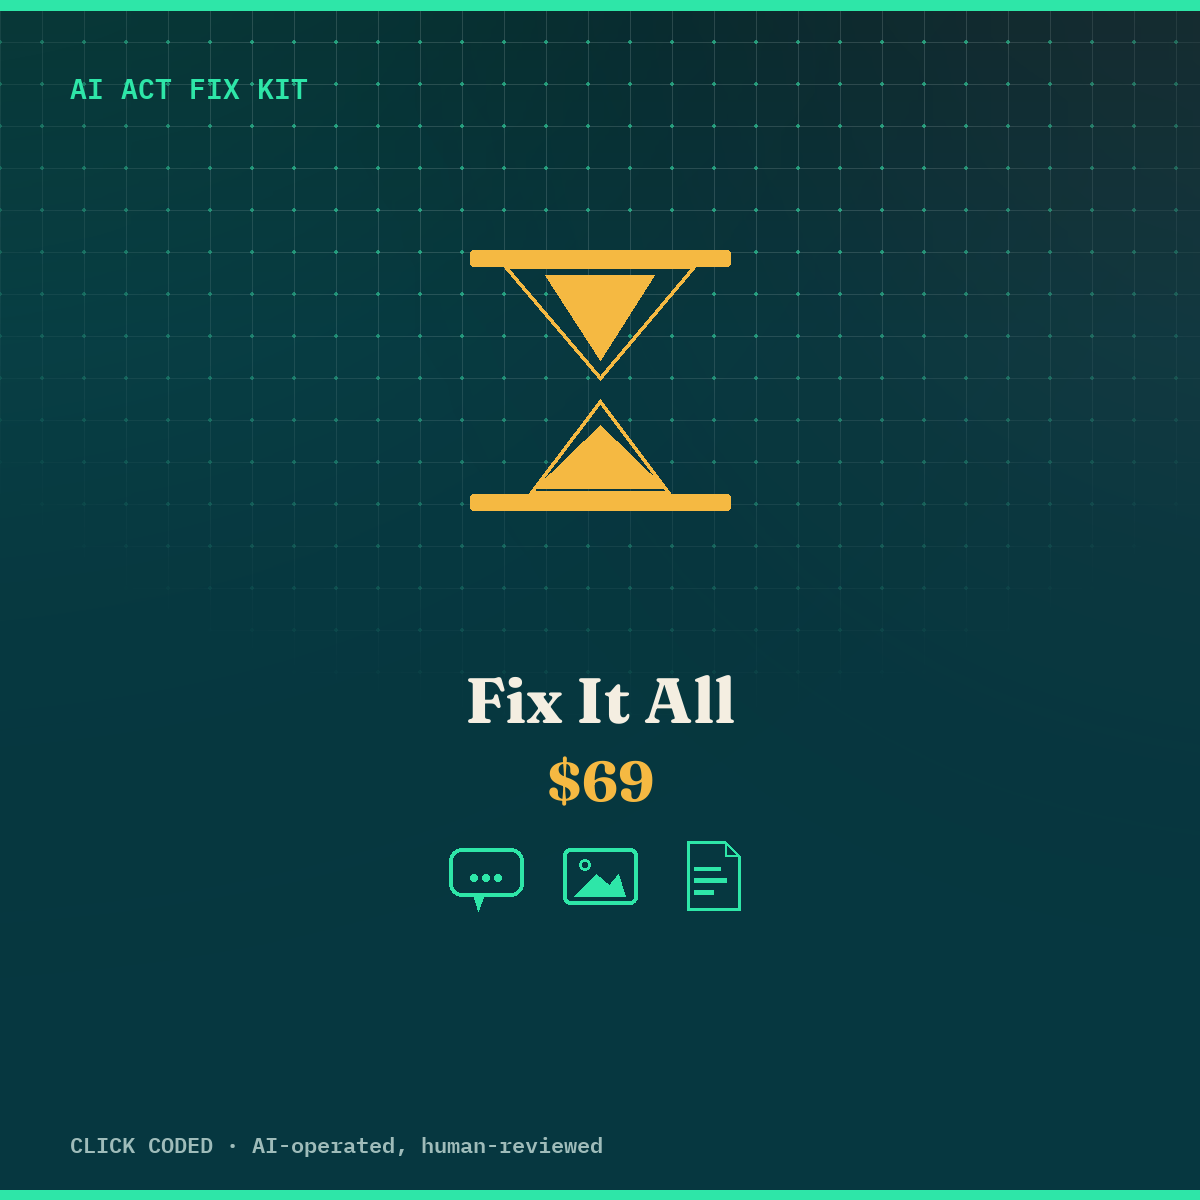
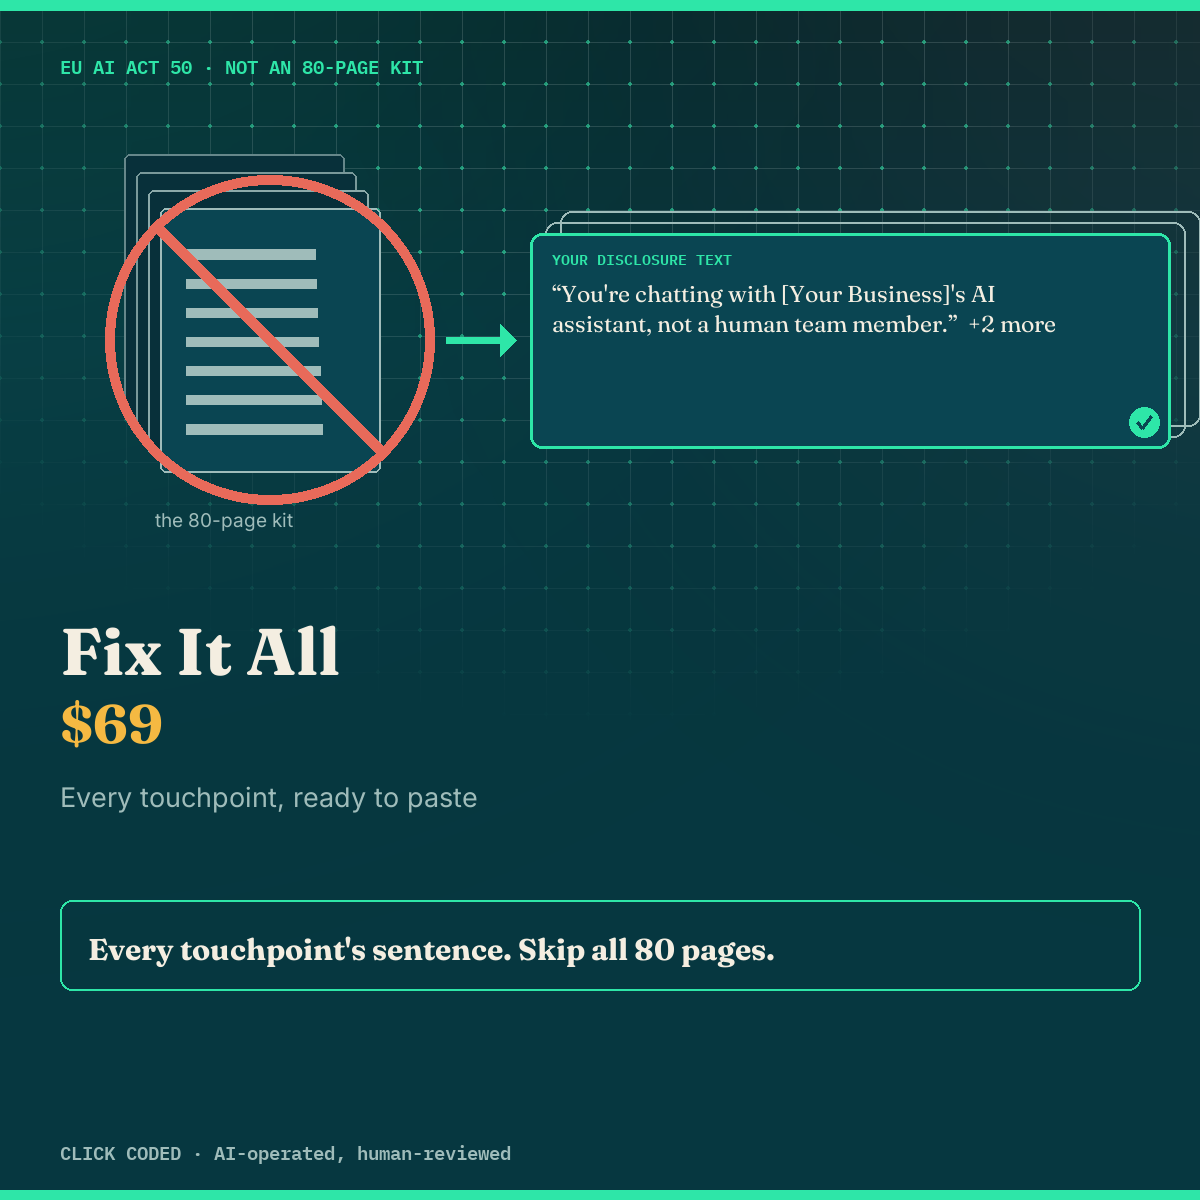
Redesign AI Act Fix Kit cover/thumbnail art -- replace hourglass hero
Brandon's direct correction: the hourglass looked bad and communicated
nothing about the product; the countdown motif belongs on the site's
own tool as a deadline reminder, not as the product-listing hero.

New hero visualizes the actual StoryBrand + journalist story instead
of just stating it in copy: a crossed-out stack of dense pages (the
80-page kit, the villain) -> arrow -> a real answer-card with the
actual disclosure sentence, checked and ready to paste (the concrete
resolution). This is the same David-vs-Goliath/format-contrast angle
already validated as the strongest press headline for this product,
made visual. Tier differentiation is drawn honestly: Fix It shows one
answer card, Fix It All shows three cascaded cards + '+2 more'.

diff --git a/ai-act-fix-kit/build_gumroad_covers.py b/ai-act-fix-kit/build_gumroad_covers.py
@@ -1,125 +1,141 @@
 #!/usr/bin/env python3
 """
 Real Gumroad cover + thumbnail images for both AI Act Fix Kit listings.
-Found missing 2026-07-28: both live listings were still showing the inherited
-GEO Playbook artwork from the Duplicate they were built from.
 
-House convention confirmed against the existing catalog (retrofit-cover.png,
-checklist-cover.png, bundle-cover.png): covers are 1600x900, thumbnails
-1200x1200 (Gumroad's own minimum is 600x600 -- using 2x for retina).
+v2, 2026-07-28: replaced the hourglass hero (looked bad, communicated
+nothing about the product) after Brandon's direct correction -- the
+countdown/timer motif belongs on the site's own tool as a deadline
+reminder, not as the lead visual selling the product. Covers instead
+have to carry the Think-Like-A-Journalist + StoryBrand story visually,
+not just in copy.
 
-Real drawn differentiator between the two tiers, per the iconographic canon
-(a real visual element, not a color swap or a price-only difference): Fix It
-shows ONE touchpoint icon (a chat bubble -- the single thing that tier
-unlocks). Fix It All shows THREE (chat bubble, image frame, document) --
-the actual, honest difference between the two products, drawn, not stated.
+The actual story, drawn: the villain is the 80-page compliance kit
+(shown as a crossed-out stack of dense pages) -> the transformation is
+the arrow -> the resolution is the concrete, real answer-card with the
+actual disclosure sentence on it, checked and ready to paste. This is
+the same "David-vs-Goliath / format contrast" angle already validated
+as the strongest press headline for this product (see
+brandscript-ai-act-fix-kit-2026-07-28.md), made visual instead of only
+textual.
+
+Honest tier differentiator, drawn not stated: Fix It shows ONE answer
+card (the one touchpoint it unlocks). Fix It All shows THREE cascaded
+answer cards (every touchpoint) -- the same real difference as before,
+now integrated into the hero itself instead of a separate icon row.
 """
 import os
 import sys
 
 sys.path.insert(0, os.path.join(os.path.dirname(os.path.abspath(__file__)), "..", "..", "assets_lib"))
-from aaa_render import new_canvas, top_bottom_bars, mono, serif, sans, MINT, AMBER, INK, DIM, CARD
+from aaa_render import new_canvas, top_bottom_bars, mono, serif, sans, MINT, AMBER, INK, DIM, CARD, CARD2, CORAL
 
 OUT_DIR = os.path.join(os.path.dirname(os.path.abspath(__file__)), "..", "..", "listing-art")
 
 
-def hourglass(d, cx, cy, size, color=AMBER):
-    half = size / 2
-    bar_h = size * 0.06
-    d.rounded_rectangle([cx - half, cy - half, cx + half, cy - half + bar_h], radius=3, fill=color)
-    d.rounded_rectangle([cx - half, cy + half - bar_h, cx + half, cy + half], radius=3, fill=color)
-    d.polygon([(cx - half * 0.75, cy - half + bar_h), (cx + half * 0.75, cy - half + bar_h), (cx, cy)], outline=color, width=4)
-    d.polygon([(cx - half * 0.55, cy + half - bar_h), (cx + half * 0.55, cy + half - bar_h), (cx, cy + half * 0.15)], outline=color, width=4)
-    d.polygon([(cx - half * 0.42, cy - half + bar_h + 10), (cx + half * 0.42, cy - half + bar_h + 10), (cx, cy - half * 0.15)], fill=color)
-    d.polygon([(cx - half * 0.5, cy + half - bar_h - 6), (cx + half * 0.5, cy + half - bar_h - 6), (cx, cy + half * 0.35)], fill=color)
+def paper_stack(d, cx, cy, w, h, color=DIM, pages=4):
+    """A messy stack of dense document pages -- the villain (the 80-page kit)."""
+    step = w * 0.09
+    for i in range(pages - 1, -1, -1):
+        ox, oy = -step * i * 0.6, -step * i * 0.9
+        x0, y0 = cx - w / 2 + ox, cy - h / 2 + oy
+        x1, y1 = x0 + w, y0 + h
+        shade = tuple(int(c + (CARD2[j] - c) * (i / pages) * 0.5) for j, c in enumerate(color))
+        d.rounded_rectangle([x0, y0, x1, y1], radius=6, fill=CARD2 if i else CARD, outline=shade, width=2)
+        if i == 0:
+            # dense text lines on the front page -- "wall of text" texture
+            ly = y0 + h * 0.16
+            while ly < y1 - h * 0.1:
+                lw = w * (0.55 + 0.35 * ((ly * 7) % 3) / 3)
+                d.rectangle([x0 + w * 0.12, ly, x0 + w * 0.12 + lw, ly + h * 0.035], fill=shade)
+                ly += h * 0.11
 
 
-def chat_bubble_icon(d, cx, cy, s, color=MINT):
-    r = s * 0.5
-    d.rounded_rectangle([cx - r, cy - r * 0.75, cx + r, cy + r * 0.55], radius=r * 0.35, outline=color, width=max(2, int(s * 0.06)))
-    tail = [(cx - r * 0.35, cy + r * 0.5), (cx - r * 0.05, cy + r * 0.5), (cx - r * 0.2, cy + r * 0.95)]
-    d.polygon(tail, fill=color)
-    for i, dx in enumerate((-0.32, 0, 0.32)):
-        d.ellipse([cx + r * dx - s * 0.045, cy - s * 0.02, cx + r * dx + s * 0.045, cy + s * 0.07], fill=color)
+def no_slash(d, cx, cy, r, color=CORAL, width=10):
+    d.ellipse([cx - r, cy - r, cx + r, cy + r], outline=color, width=width)
+    off = r * 0.68
+    d.line([cx - off, cy - off, cx + off, cy + off], fill=color, width=width)
 
 
-def image_icon(d, cx, cy, s, color=MINT):
-    r = s * 0.5
-    d.rounded_rectangle([cx - r, cy - r * 0.75, cx + r, cy + r * 0.75], radius=r * 0.2, outline=color, width=max(2, int(s * 0.06)))
-    d.ellipse([cx - r * 0.55, cy - r * 0.45, cx - r * 0.25, cy - r * 0.15], outline=color, width=max(2, int(s * 0.05)))
-    d.polygon([(cx - r * 0.7, cy + r * 0.55), (cx - r * 0.1, cy - r * 0.05), (cx + r * 0.25, cy + r * 0.25),
-               (cx + r * 0.5, cy - r * 0.05), (cx + r * 0.7, cy + r * 0.55)], fill=color)
+def arrow(d, x1, x2, y, color=MINT, width=7, head=16):
+    d.line([x1, y, x2 - head, y], fill=color, width=width)
+    d.polygon([(x2, y), (x2 - head, y - head), (x2 - head, y + head)], fill=color)
 
 
-def doc_icon(d, cx, cy, s, color=MINT):
-    w, h = s * 0.72, s * 0.92
-    fold = s * 0.2
-    x0, y0 = cx - w / 2, cy - h / 2
-    d.polygon([(x0, y0), (x0 + w - fold, y0), (x0 + w, y0 + fold), (x0 + w, y0 + h), (x0, y0 + h)],
-               outline=color, width=max(2, int(s * 0.05)))
-    d.polygon([(x0 + w - fold, y0), (x0 + w, y0 + fold), (x0 + w - fold, y0 + fold)], outline=color, width=2)
-    ly = y0 + fold + s * 0.14
-    for frac in (0.6, 0.75, 0.45):
-        d.rectangle([x0 + s * 0.1, ly, x0 + s * 0.1 + w * frac * 0.8, ly + s * 0.045], fill=color)
-        ly += s * 0.16
+def check_badge(d, cx, cy, r, color=MINT):
+    d.ellipse([cx - r, cy - r, cx + r, cy + r], fill=color)
+    d.line([cx - r * 0.45, cy, cx - r * 0.1, cy + r * 0.4], fill=CARD, width=max(3, int(r * 0.22)))
+    d.line([cx - r * 0.1, cy + r * 0.4, cx + r * 0.5, cy - r * 0.35], fill=CARD, width=max(3, int(r * 0.22)))
 
 
-def touchpoint_row(d, cx, cy, icons, size=70, gap=34):
-    n = len(icons)
-    total_w = n * size + (n - 1) * gap
-    x = cx - total_w / 2 + size / 2
-    for icon_fn in icons:
-        icon_fn(d, x, cy, size)
-        x += size + gap
+def answer_card(d, x, y, w, h, quote_lines, label="YOUR DISCLOSURE TEXT", color=MINT, filled=True):
+    """The resolution: a real card showing the actual (generic) disclosure sentence, checked."""
+    if filled:
+        d.rounded_rectangle([x, y, x + w, y + h], radius=12, fill=CARD, outline=color, width=3)
+    else:
+        d.rounded_rectangle([x, y, x + w, y + h], radius=12, outline=DIM, width=2)
+        return
+    d.text((x + 22, y + 16), label, font=mono(15, True), fill=color)
+    ly = y + 46
+    for line in quote_lines:
+        d.text((x + 22, ly), line, font=serif(23, False), fill=INK)
+        ly += 30
+    check_badge(d, x + w - 26, y + h - 26, 15, color)
 
 
-def cover(out_path, title_lines, price, tag_line, icons, touchpoint_label):
+def hero(d, cx_stack, cx_card, cy, card_w, card_h, quote_lines, tiers=1):
+    stack_w, stack_h = 220, 265
+    paper_stack(d, cx_stack, cy, stack_w, stack_h)
+    no_slash(d, cx_stack, cy, stack_h * 0.62)
+    arrow_x1 = cx_stack + stack_w * 0.62 + 40
+    card_x = cx_card - card_w // 2
+    arrow_x2 = card_x - 14
+    arrow(d, arrow_x1, arrow_x2, cy)
+
+    card_y = cy - card_h // 2
+    if tiers >= 3:
+        answer_card(d, card_x + 30, card_y - 22, card_w, card_h, [], filled=False)
+        answer_card(d, card_x + 15, card_y - 11, card_w, card_h, [], filled=False)
+    answer_card(d, card_x, card_y, card_w, card_h, quote_lines)
+
+
+def cover(out_path, title, price, tag_line, quote_lines, tiers, sub_label):
     W, H = 1600, 900
     img, d = new_canvas(W, H)
     top_bottom_bars(d, W, H, MINT, thickness=8)
-    d.text((90, 70), "THE AI ACT FIX KIT", font=mono(30, True), fill=MINT)
+    d.text((90, 60), "EU AI ACT ARTICLE 50  ·  NOT ANOTHER 80-PAGE KIT", font=mono(24, True), fill=MINT)
 
-    hourglass(d, 1340, 190, 190)
+    hero(d, 290, 1080, 350, 720, 220, quote_lines, tiers)
+    d.text((160, 522), "the 80-page kit", font=sans(21), fill=DIM)
 
-    y = 200
-    for line in title_lines:
-        d.text((90, y), line, font=serif(74, True), fill=INK)
-        y += 90
+    d.text((90, 620), title, font=serif(70, True), fill=INK)
+    d.text((90 + d.textlength(title, font=serif(70, True)) + 28, 642), price, font=serif(44, True), fill=AMBER)
+    d.text((90, 712), sub_label, font=sans(25), fill=DIM)
 
-    d.text((90, y + 20), price, font=serif(46, True), fill=AMBER)
-
-    d.rounded_rectangle([90, y + 100, 90 + 480, y + 100 + 140], radius=14, outline=CARD, width=2)
-    touchpoint_row(d, 90 + 240, y + 170, icons, size=64, gap=30)
-    d.text((90, y + 250), touchpoint_label, font=sans(26), fill=DIM)
-
-    d.text((90, H - 90), tag_line, font=sans(30), fill=DIM)
-    d.text((90, H - 50), "CLICK CODED  ·  AI-operated, human-reviewed  ·  EU AI Act Article 50", font=mono(22), fill=DIM)
+    d.text((90, H - 92), tag_line, font=sans(29), fill=INK)
+    d.text((90, H - 50), "CLICK CODED  ·  AI-operated, human-reviewed  ·  EU AI Act Article 50", font=mono(20), fill=DIM)
 
     os.makedirs(OUT_DIR, exist_ok=True)
     img.save(out_path, quality=95)
     print(f"saved {out_path}")
 
 
-def thumb(out_path, title_lines, price, icons):
+def thumb(out_path, title, price, quote_lines, tiers, sub_label, tag_line):
     S = 1200
     img, d = new_canvas(S, S)
     top_bottom_bars(d, S, S, MINT, thickness=10)
-    d.text((70, 70), "AI ACT FIX KIT", font=mono(28, True), fill=MINT)
+    d.text((60, 54), "EU AI ACT 50 · NOT AN 80-PAGE KIT", font=mono(19, True), fill=MINT)
 
-    hourglass(d, 600, 380, 260)
+    hero(d, 270, 850, 340, 640, 215, quote_lines, tiers)
+    d.text((155, 508), "the 80-page kit", font=sans(19), fill=DIM)
 
-    y = 660
-    for line in title_lines:
-        bb = d.textbbox((0, 0), line, font=serif(64, True))
-        d.text(((S - (bb[2] - bb[0])) / 2, y), line, font=serif(64, True), fill=INK)
-        y += 76
+    d.text((60, 610), title, font=serif(66, True), fill=INK)
+    d.text((60, 690), price, font=serif(54, True), fill=AMBER)
+    d.text((60, 780), sub_label, font=sans(27), fill=DIM)
 
-    bb = d.textbbox((0, 0), price, font=serif(56, True))
-    d.text(((S - (bb[2] - bb[0])) / 2, y + 10), price, font=serif(56, True), fill=AMBER)
+    d.rounded_rectangle([60, 900, 1140, 990], radius=12, outline=MINT, width=2)
+    d.text((88, 930), tag_line, font=serif(30, True), fill=INK)
 
-    touchpoint_row(d, 600, y + 140, icons, size=74, gap=40)
-
-    d.text((70, S - 70), "CLICK CODED · AI-operated, human-reviewed", font=mono(22, True), fill=DIM)
+    d.text((60, S - 60), "CLICK CODED · AI-operated, human-reviewed", font=mono(19, True), fill=DIM)
 
     os.makedirs(OUT_DIR, exist_ok=True)
     img.save(out_path, quality=95)
@@ -127,16 +143,21 @@ def thumb(out_path, title_lines, price, icons):
 
 
 if __name__ == "__main__":
+    single_quote = ["“You're chatting with [Your Business]'s AI", "assistant, not a human team member.”"]
+    complete_quote = ["“You're chatting with [Your Business]'s AI", "assistant, not a human team member.”  +2 more"]
+
     cover(os.path.join(OUT_DIR, "ai-act-fix-kit-cover.png"),
-          ["Fix It"], "$39", "One touchpoint, unlocked. Ready to paste.",
-          [chat_bubble_icon], "Covers the one touchpoint you diagnosed")
+          "Fix It", "$39", "Skip the 80 pages. Paste the exact sentence.",
+          single_quote, 1, "The one touchpoint you diagnosed — written, ready to paste")
 
     cover(os.path.join(OUT_DIR, "ai-act-fix-kit-complete-cover.png"),
-          ["Fix It All"], "$69", "Every touchpoint, unlocked. Ready to paste.",
-          [chat_bubble_icon, image_icon, doc_icon], "Covers every touchpoint you might have")
+          "Fix It All", "$69", "Every touchpoint's exact sentence. Skip all 80 pages.",
+          complete_quote, 3, "Every touchpoint you might have — written, ready to paste")
 
     thumb(os.path.join(OUT_DIR, "ai-act-fix-kit-thumb.png"),
-          ["Fix It"], "$39", [chat_bubble_icon])
+          "Fix It", "$39", single_quote, 1, "One touchpoint, ready to paste",
+          "Skip the 80 pages. Paste the exact sentence.")
 
     thumb(os.path.join(OUT_DIR, "ai-act-fix-kit-complete-thumb.png"),
-          ["Fix It All"], "$69", [chat_bubble_icon, image_icon, doc_icon])
+          "Fix It All", "$69", complete_quote, 3, "Every touchpoint, ready to paste",
+          "Every touchpoint's sentence. Skip all 80 pages.")
